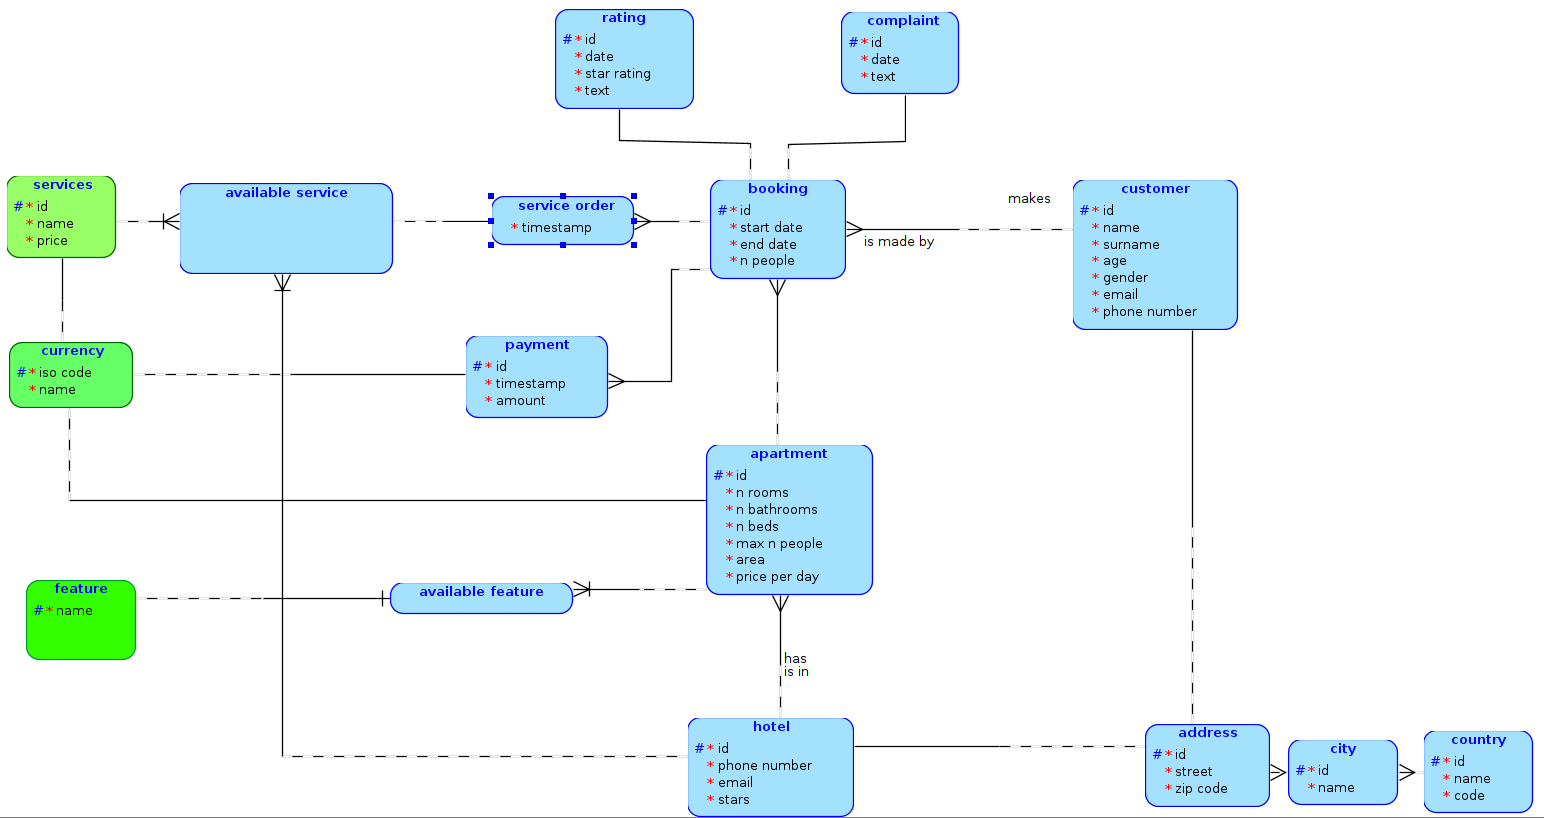
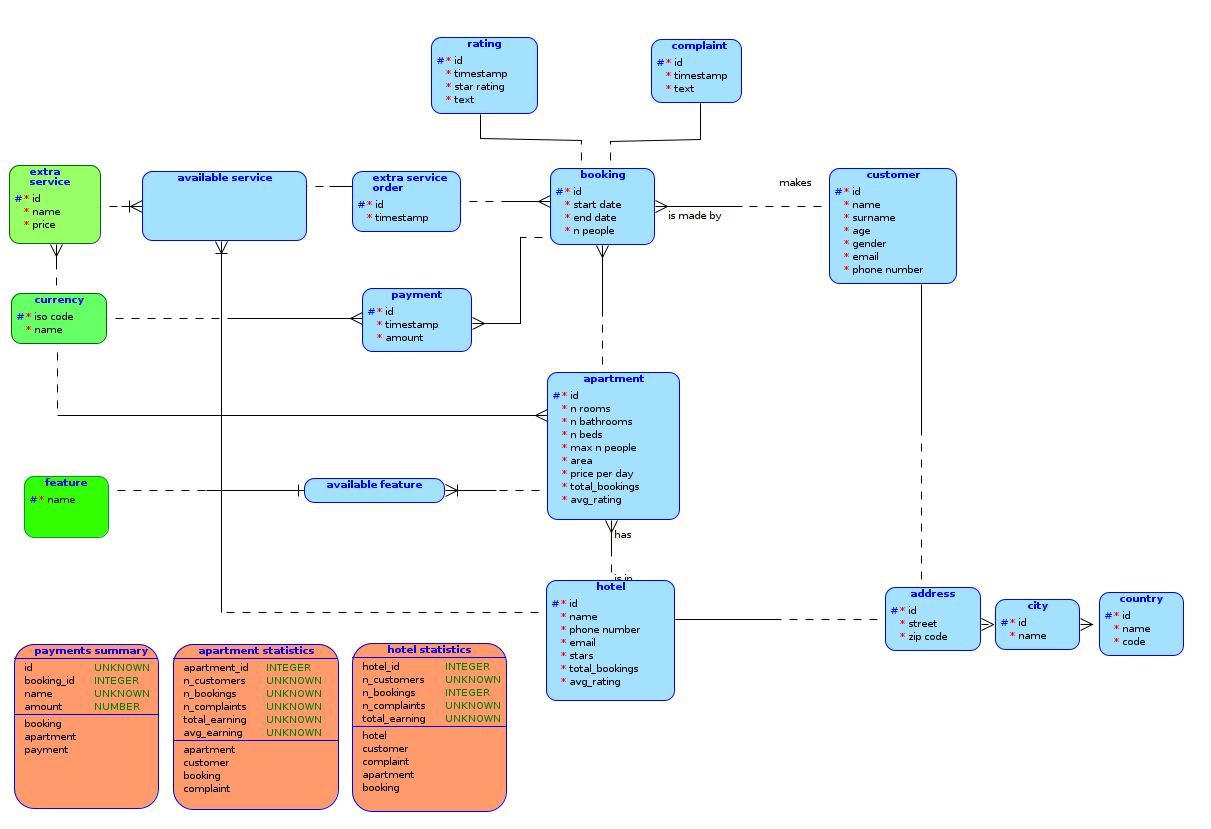
update docs

diff --git a/README.md b/README.md
@@ -10,7 +10,10 @@ Projekt semestralny na przedmiot Bazy Danych 2 (2024L)
 ## Opis projektu
 Projekt składa się z bazy danych i aplikacji obsługujących system rezerwacji w hotelach
 
-### Planowane funkcjonalności
+* [Model danych](./docs/data-model.md)
+* [Instrukcja uruchomienia](./docs/build-and-run.md)
+
+## Funkcjonalności
 * Operacyjne
     * Wyszukiwanie dostępnych pokoi w wybranym obszarze przez klienta
     * Złożenie rezerwacji przez klienta
@@ -26,17 +29,6 @@ Projekt składa się z bazy danych i aplikacji obsługujących system rezerwacji
     * Wyświetlenie rankingu hoteli względem zagregowanych ocen
     * Wyświetlenie podsumowania liczby zażaleń z podziałem na hotele
 
-  
-## Model danych
-
-### Model pojęciowy
-![Diagram związków encji](./docs/er-diagram-2.png)
-
-### Denormalizacja
-Model jest zdenormalizowany dla przyspieszenia wybranych operacji
-
-* Atrybut `avg_rating` w `hotel`
-* Atrybut `avg_rating` w `apartment`
 
 ## Wykorzystane technologie
 * Baza danych PostgreSQL
@@ -44,58 +36,3 @@ Model jest zdenormalizowany dla przyspieszenia wybranych operacji
   * ORM Spring Data JPA
   * Moduł Spring Shell to tworzenia aplikacji CLI
 * Model ER i logiczny - Oracle Data Modeler
-
-## Instalacja i uruchomienie
-
-### Baza danych
-Do uruchomienia lokalnie używamy Docker Compose ([instalacja dla Ubuntu](https://docs.docker.com/engine/install/ubuntu/))
-
-Uruchomienie
-```shell
-docker compose -f database/docker-compose.yml up -d
-```
-
-Plik `docker-compose.yml` zawiera konfigurację uruchomienia. Dane z bazy będą nieulotne, przechowywane w katalogu 
-`./database/data` (ignorowanym przez git)
-
-Katalog [scripts](./database/scripts) zawiera skrypty do bazy danych
-* [schema.sql](./database/scripts/schema.sql) - definiuje schemat bazy danych (tworzy tabele)
-* [sample-data.sql](./database/scripts/sample-data.sql) - dodaje przykładowe dane
-* [clean-all.sql](./database/scripts/clean-all.sql) - czyści zawartość bazy
-* [query.sql](./database/scripts/query.sql) - przykładowe zapytania
-
-Uruchomić skrypt można np. przez wtyczkę do IntelliJ. Trzeba dodać źródło danych w zakładce Database,
-otworzyć wybrany skrypt i wybrać sesję bazy danych. Skrypt można uruchomić zielonym przyciskiem play lub skrótem Ctrl+Enter.
-
-Skrypt można uruchomić wywołując w kontenerze polecenie psql i przekazując skrypt potokiem na stdin.
-Zakładając, że kontener ma nazwę `database-db-1` wykonujemy:
-
-```shell
-cat ./database/scripts/query.sql | docker exec -i database-db-1 psql -U admin -d postgres
-```
-
-
-### Aplikacja
-Aplikacja wymaga Javy w wersji 17, wygodną instalację umożliwia [SDKMan](https://sdkman.io/).
-
-Wszystkie komendy wykonujemy przez wrapper do Gradle `gradlew`
-
-#### Budowanie
-Do zbudowania aplikacji do pliku "fat jar" - plik wykonywalny dla JVM, aplikacja spakowana ze wszystkimi zależnościami
-
-```shell
-./gradlew bootJar
-```
-
-#### Uruchomienie jar
-```shell
-java -jar ./hotelapp/build/libs/hotelapp-0.0.1-SNAPSHOT.jar
-```
-
-#### Uruchomienie w IntelliJ
-Przy poprawnym załadowaniu projektu Gradle w IntelliJ, można wygodnie uruchamiać aplikację przez run configuration
-
-### Data modeler
-Program do pobrania na stronie [Oracle](https://www.oracle.com/database/sqldeveloper/technologies/sql-data-modeler/download/)
-
-File > Open > data-modeler-design.dmd

diff --git a/docs/build-and-run.md b/docs/build-and-run.md
@@ -1,0 +1,56 @@
+# Instalacja i uruchomienie
+
+## Baza danych
+Do uruchomienia lokalnie używamy Docker Compose ([instalacja dla Ubuntu](https://docs.docker.com/engine/install/ubuntu/))
+
+### Uruchomienie
+```shell
+docker compose -f database/docker-compose.yml up -d
+```
+
+Plik `docker-compose.yml` zawiera konfigurację uruchomienia. Dane z bazy będą nieulotne, przechowywane w katalogu
+`./database/data` (ignorowanym przez git)
+
+### Skrypty
+
+Katalog [scripts](./database/scripts) zawiera skrypty do bazy danych
+* [schema.sql](./database/scripts/schema.sql) - definiuje schemat bazy danych (tworzy tabele)
+* [sample-data.sql](./database/scripts/sample-data.sql) - dodaje przykładowe dane
+* [clean-all.sql](./database/scripts/clean-all.sql) - czyści zawartość bazy
+* [query.sql](./database/scripts/query.sql) - przykładowe zapytania
+
+Uruchomić skrypt można np. przez wtyczkę do IntelliJ. Trzeba dodać źródło danych w zakładce Database,
+otworzyć wybrany skrypt i wybrać sesję bazy danych. Skrypt można uruchomić zielonym przyciskiem play lub skrótem Ctrl+Enter.
+
+Skrypt można uruchomić wywołując w kontenerze polecenie psql i przekazując skrypt potokiem na stdin.
+Zakładając, że kontener ma nazwę `database-db-1` wykonujemy:
+
+```shell
+cat ./database/scripts/query.sql | docker exec -i database-db-1 psql -U admin -d postgres
+```
+
+
+## Aplikacja
+Aplikacja wymaga Javy w wersji 17, wygodną instalację umożliwia [SDKMan](https://sdkman.io/).
+
+Wszystkie komendy wykonujemy przez wrapper do Gradle `gradlew`
+
+### Budowanie
+Do zbudowania aplikacji do pliku "fat jar" - plik wykonywalny dla JVM, aplikacja spakowana ze wszystkimi zależnościami
+
+```shell
+./gradlew bootJar
+```
+
+### Uruchomienie jar
+```shell
+java -jar ./hotelapp/build/libs/hotelapp-0.0.1-SNAPSHOT.jar
+```
+
+### Uruchomienie w IntelliJ
+Przy poprawnym załadowaniu projektu Gradle w IntelliJ, można wygodnie uruchamiać aplikację przez run configuration
+
+## Data modeler
+Program do pobrania na stronie [Oracle](https://www.oracle.com/database/sqldeveloper/technologies/sql-data-modeler/download/)
+
+File > Open > data-modeler-design.dmd

diff --git a/docs/data-model.md b/docs/data-model.md
@@ -1,0 +1,14 @@
+# Model danych
+
+## Model pojęciowy
+![Diagram związków encji](./er-diagram.png)
+
+## Model relacyjny
+![Diagram relacyjny](./relational-diagram.png)
+
+## Denormalizacja
+Model jest zdenormalizowany dla przyspieszenia wybranych operacji
+
+Atrybuty `hotel.avg_rating` i `apartment.avg_rating` są aktualizowane wyzwalaczem po zmianie w tabeli `rating`.
+
+Atrybuty `hotel.total_bookings` `apartment.total_bookings` są aktualizowane wyzwalaczem po zmianie w tabeli `booking`.
